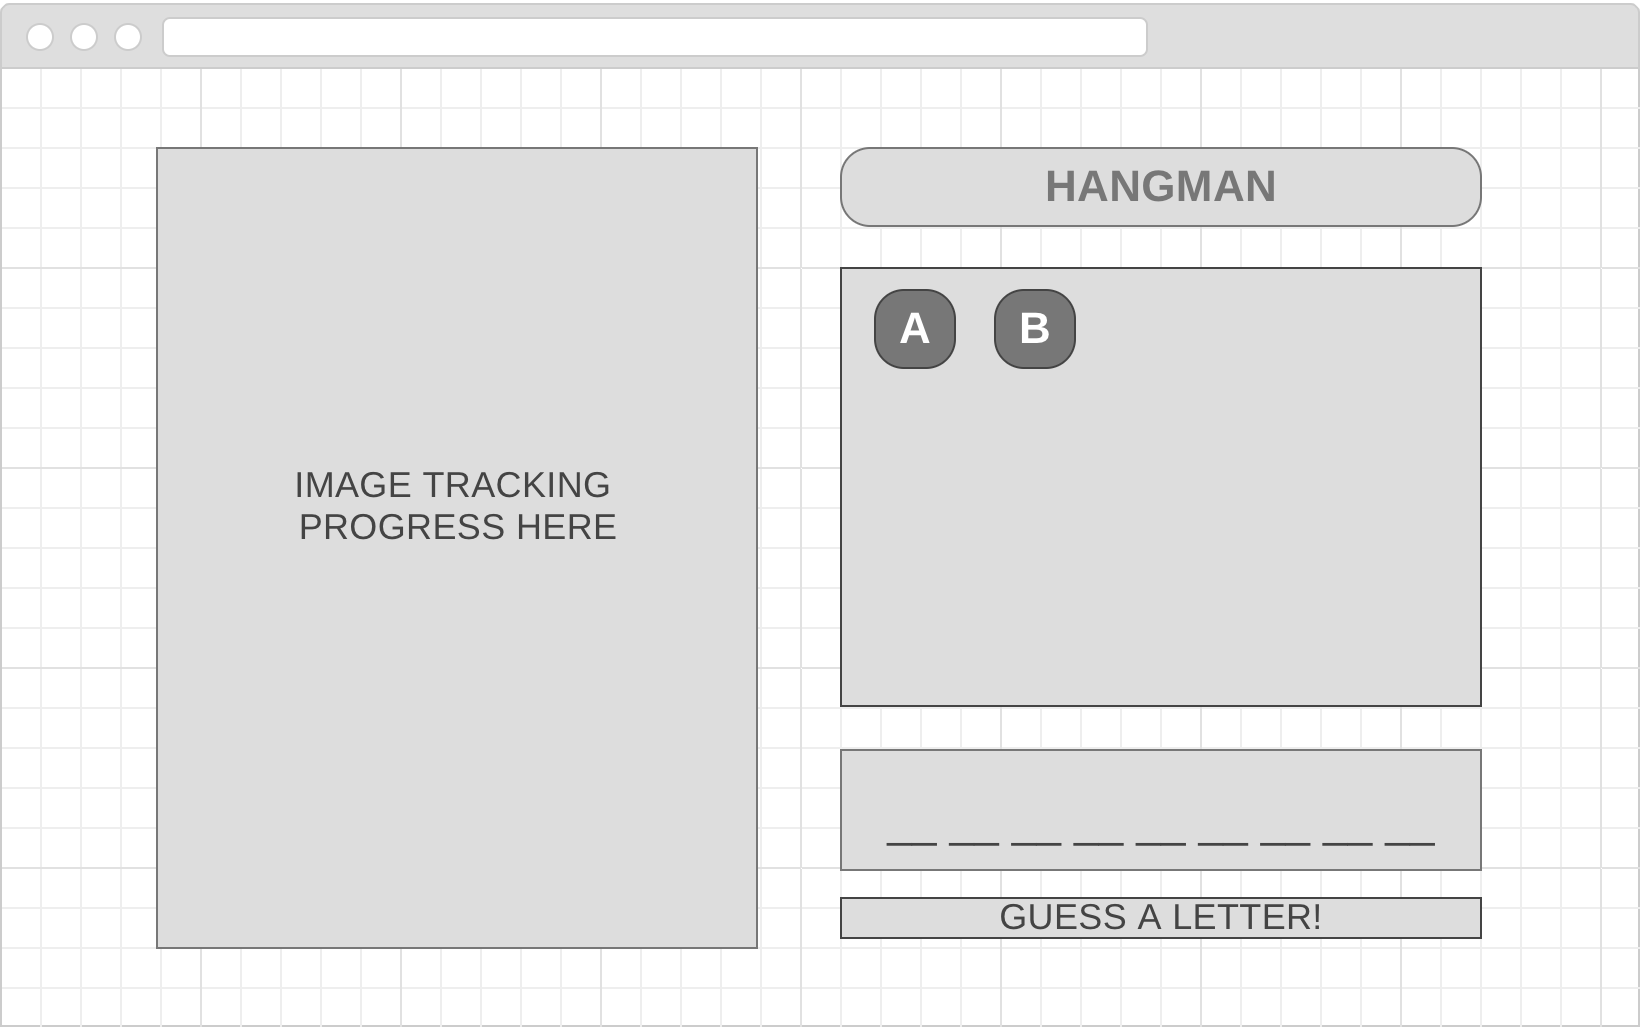
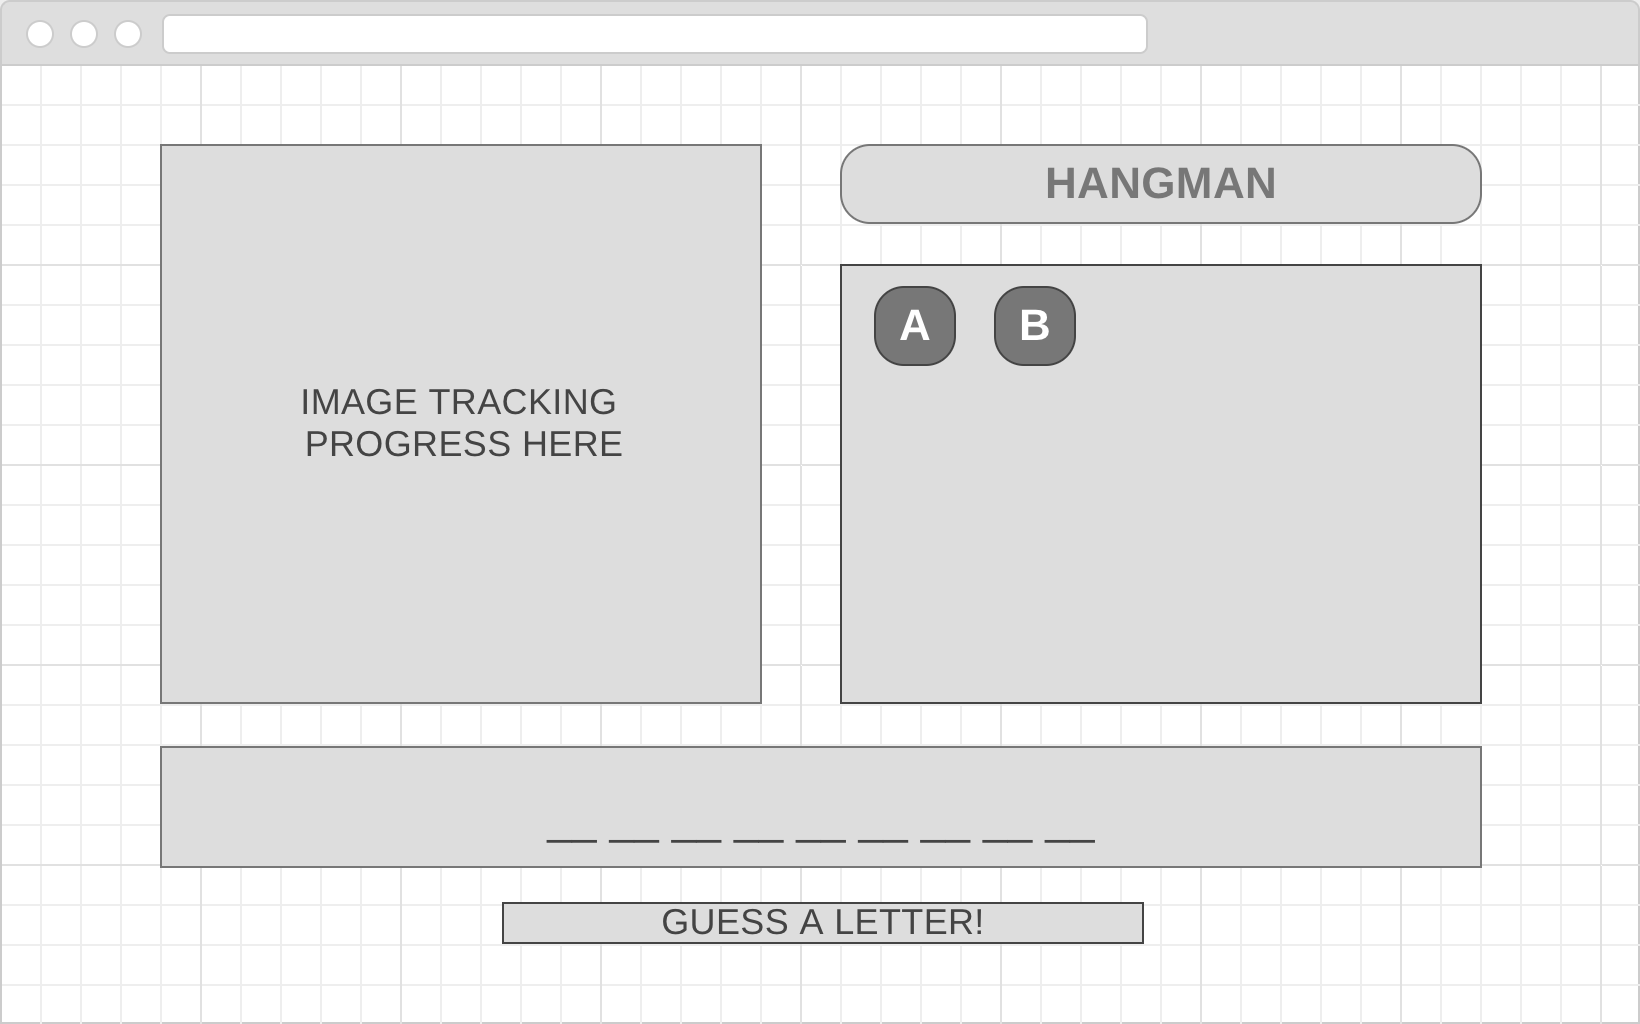
update layout to account for large words and begin formatting layout

diff --git a/src/containers/Hangman/Hangman.js b/src/containers/Hangman/Hangman.js
@@ -1,6 +1,7 @@
 import React, { Component } from 'react'
 import axios from 'axios'
 
+import PlayArea from '../../components/PlayArea/PlayArea'
 import Word from '../../components/Word/Word'
 import Letters from '../../components/Letters/Letters'
 import Spinner from '../../UI/Spinner/Spinner'
@@ -153,10 +154,10 @@ class Hangman extends Component {
         </React.Fragment>
     )
     return (
-      <React.Fragment>
+      <PlayArea>
         <h1>HANGMAN</h1>
         {this.state.words.length ? hangman : <Spinner />}
-      </React.Fragment>
+      </PlayArea>
     )
   }
 }

diff --git a/src/components/PlayArea/PlayArea.js b/src/components/PlayArea/PlayArea.js
@@ -1,0 +1,10 @@
+import React from 'react'
+import classes from './PlayArea.css'
+
+const playArea = (props) => (
+  <div className={classes.PlayArea}>
+    {props.children}
+  </div>
+)
+
+export default playArea

diff --git a/src/hoc/Aux.js b/src/hoc/Aux.js
@@ -1,0 +1,3 @@
+const aux = (props) => props.children
+
+export default aux

diff --git a/src/components/PlayArea/PlayArea.css b/src/components/PlayArea/PlayArea.css
@@ -1,0 +1,3 @@
+.PlayArea {
+  width: 45%;
+}
